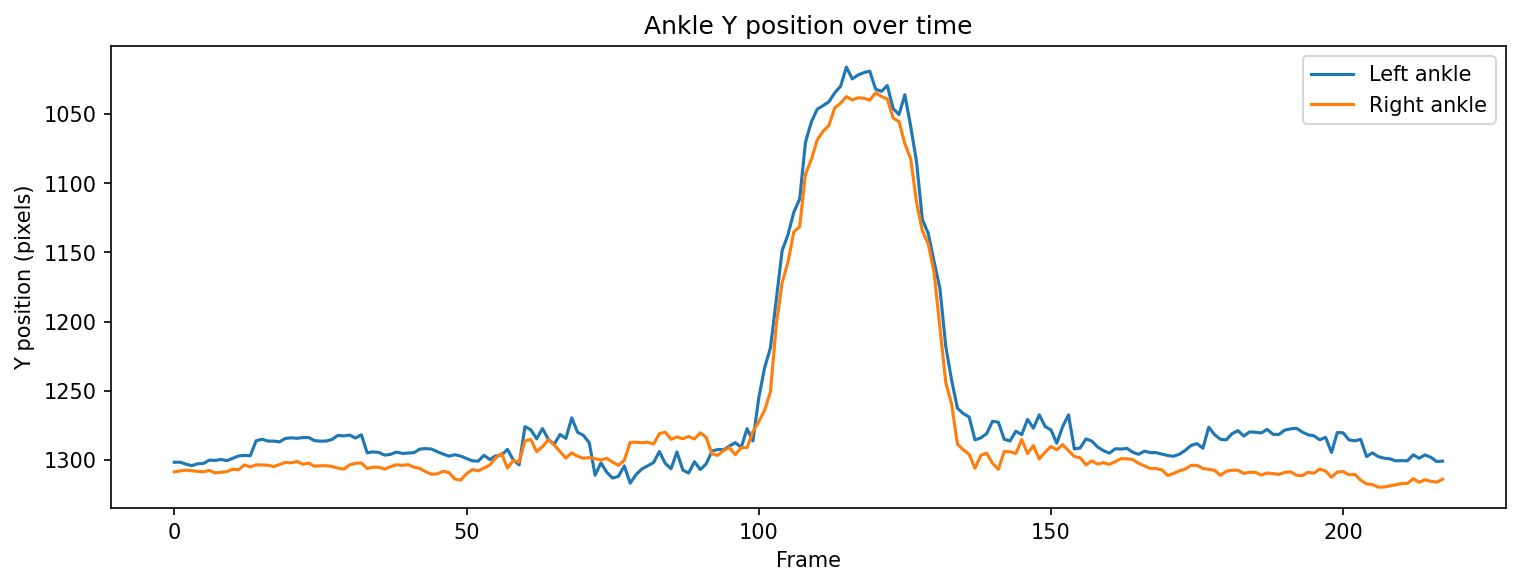
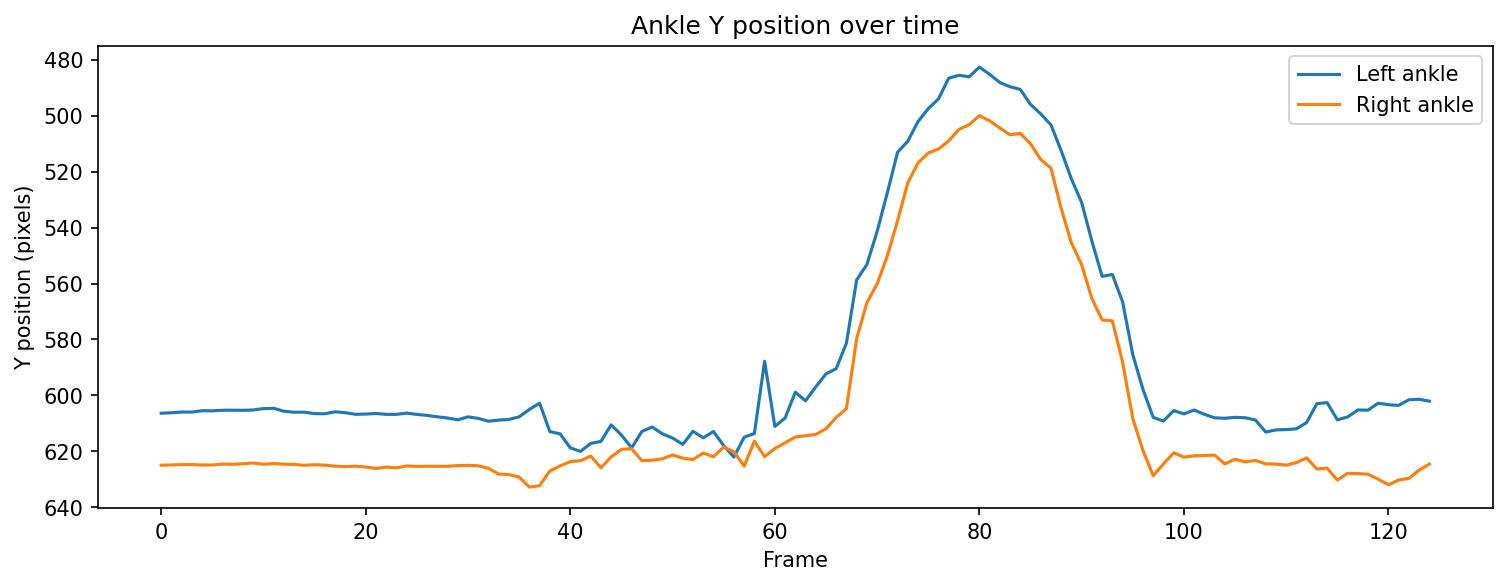
chore: Add updated READMEs

diff --git a/backend/core/vertical/README.md b/backend/core/vertical/README.md
@@ -1,0 +1,114 @@
+# Vertical module: Technical decisions
+
+This document records the key design choices made during development of the vertical jump analysis module, and the reasoning behind each one.
+
+---
+
+## Overview
+
+The vertical module measures jump height (cm) and flight time (ms) from a video recording. The phone records the athlete performing a countermovement jump from the side. YOLOv8 Pose tracks ankle position frame by frame, takeoff and landing frames are detected from the resulting Y-trajectory, and jump height is derived from flight time using free-fall kinematics.
+
+**Pipeline**: record/load video → track ankles → detect takeoff + landing → compute height.
+
+---
+
+## Pose estimation: YOLOv8 instead of MediaPipe
+
+The original design used MediaPipe. MediaPipe 0.10.x dropped the legacy `mp.solutions` API entirely, and the last version that had it (`0.10.14`) has no wheels for Python 3.12+.
+
+**Decision:** switch to `ultralytics` (YOLOv8n-pose, `yolov8n-pose.pt`). It supports modern Python, has equivalent keypoint quality for this use case, and is actively maintained.
+
+**Practical difference:** YOLOv8 returns keypoints in absolute pixel coordinates, not normalized 0–1 values. Ankle keypoints are indices 15 (left) and 16 (right). This is irrelevant for the height calculation because jump height is derived from flight time, not pixel displacement.
+
+---
+
+## Inference device
+
+At startup, `main.py` checks `torch.cuda.is_available()` and stores the result in `app.state.device`. The device string (`"cuda"` or `"cpu"`) is passed down to `track_ankles` and used in every `model()` call. CPU processes the test video (218 frames, 60 fps) in ~10 s, acceptable for a synchronous endpoint with personal-use frequency.
+
+---
+
+## Tracking: average of both ankles
+
+`track_ankles` averages keypoints 15 (left ankle) and 16 (right ankle) into a single `ankle_y` series. For a symmetric vertical jump both ankles follow nearly identical trajectories, so averaging reduces per-keypoint noise without losing relevant information.
+
+**Known limitation:** for jumps with significant asymmetry (rotation, unequal push-off), averaging could hide that information. Not a concern for the intended use case (straight vertical jump, self-recorded on a tripod).
+
+---
+
+## Frames without detection: forward-fill
+
+If YOLO fails to detect a person in a frame (occasional missed detections), `track_ankles` repeats the last valid `ankle_y` value. This keeps the series continuous without gaps.
+
+**Special case: frame 0 without detection.** there is no prior value to repeat, so the function returns `{"success": False, "error": "No person detected in the first frame"}`. Backward-fill was not implemented because under normal use the athlete is visible from the first frame.
+
+---
+
+## Person selection: first YOLO detection
+
+`track_ankles` uses `keypoints.xy[0]`, the first person YOLO detects in each frame. If multiple people are visible the result is indeterminate. This is accepted because the intended setup is one person self-recording in an empty space.
+
+---
+
+## Takeoff and landing detection: relative threshold
+
+`detect_takeoff_and_landing` computes:
+
+- `rest_position`: median of the first `rest_frames` (default 15) ankle-Y values. Median instead of mean to be robust against occasional detection outliers.
+- `peak_position`: global minimum of `ankle_y` (lowest Y value = highest point in image coordinates).
+- `total_range = rest_position − peak_position`.
+- `threshold = rest_position − margin_ratio × total_range`.
+
+**Takeoff** is the first frame (after `rest_frames`) where `ankle_y` drops below the threshold and stays below for `sustain_frames` (default 2) consecutive frames, to filter single-frame noise spikes.
+
+**Landing** is the symmetric crossing, searched forward from the peak frame.
+
+### Calibration of `margin_ratio`
+
+Starting value `0.1` (10% of total range) produced takeoff detection ~3 frames too early against frame-by-frame visual inspection of the test video. `margin_ratio = 0.3` matched the visual read closely. **This value was calibrated on a single 60 fps CMJ video** and is exposed as a parameter for future recalibration without code changes.
+
+### Known limitation: the ankle is not the foot
+
+During takeoff the heel rises while the toes remain on the ground; during landing the reverse happens. The ankle moves before the foot fully leaves the ground, and stops after the foot fully lands. This introduces a systematic bias in `flight_time_ms` and therefore in `jump_height_cm`. Calibrating `margin_ratio` to your own setup should fix it.
+
+---
+
+## Jump height formula: `h = g·t²/8`
+
+For a symmetric vertical jump (equal ascent and descent, each `t/2`):
+
+```
+h = g · (t/2)² / 2  =  g · t² / 8
+```
+
+`GRAVITY_M_S2 = 9.80665` (standard gravity).
+
+---
+
+## FPS: metadata or override
+
+FPS is read from `cap.get(cv2.CAP_PROP_FPS)`. `MediaRecorder` (the browser recording API) does not embed a valid FPS value in the WebM container; metadata often reads as `1000` or `0`. The endpoint accepts an optional `fps` form field; when provided, it overrides the metadata value. The frontend reads `videoTrack.getSettings().frameRate` and sends it as `fps`.
+
+If `fps_override` is not provided and metadata FPS is outside the range `(0, 240]`, the endpoint returns an error rather than computing silently wrong results.
+
+**Known risk:** if metadata reports a non-integer (e.g. `59.94` instead of `60.0`) and no override is sent, the timing calculations inherit a small error.
+
+**Input modes:** the upload component supports three modes: Record (countdown + camera, recommended), Upload video (file from device, for iOS compatibility or pre-recorded videos), and Manual (direct height entry, no video required).
+
+---
+
+## Error contract: `{success, error}` throughout the module
+
+All functions in `extractor.py` return dicts with `success: bool` and, on failure, `error: str`. Python exceptions would be more idiomatic, but the module was fully implemented and tested with the dict pattern before the question arose. All subsequent modules follow the same contract for consistency.
+
+---
+
+## Model injected as parameter
+
+`analyze(video_path, model, device, fps_override)` receives the YOLOv8 model and device string as parameters. The model is loaded once at startup via the FastAPI `lifespan` handler and stored in `app.state.model`. This avoids the ~1–2 s model-load cost on every request.
+
+---
+
+## `ankle_y` series not included in the response
+
+`track_ankles` computes the full ankle trajectory but `analyze` does not include it in the return dict. Adding it is one line when needed (e.g. for overlaying the trajectory on the video). It is omitted now to avoid sending 200+ floats per request with no consumer.

diff --git a/backend/tests/README.md b/backend/tests/README.md
@@ -1,0 +1,92 @@
+# Tests
+
+## Running tests
+
+All commands must be run from the `backend/` directory:
+
+```bash
+cd backend
+```
+
+**Run everything except integration tests** (fast, no fixtures needed):
+
+```bash
+uv run pytest -m "not integration"
+```
+
+**Run only integration tests** (requires fixture files, see below):
+
+```bash
+uv run pytest -m integration
+```
+
+**Run everything:**
+
+```bash
+uv run pytest
+```
+
+---
+
+## Test structure
+
+```
+tests/
+├── conftest.py              # Shared fixtures: test DB, TestClient, YOLO model
+├── api/
+│   ├── test_horizontal.py   # POST /api/analyze/horizontal
+│   ├── test_vertical.py     # POST /api/analyze/vertical
+│   ├── test_sprint.py       # POST /api/analyze/sprint
+│   └── test_sessions.py     # athlete profile, sessions, dashboard, metrics
+└── core/
+    ├── vertical/            # Unit tests for vertical extractor functions
+    └── sprint/              # Unit tests for sprint extractor functions
+```
+
+---
+
+## Integration tests and fixtures
+
+Tests marked with `@pytest.mark.integration` require real media files that are **not** committed to the repository (personal recordings).
+
+Place the following files manually before running integration tests:
+
+| Path | Description |
+|------|-------------|
+| `tests/core/vertical/fixtures/video.mp4` | Side-on video of a vertical jump. The athlete must be fully visible for the entire jump with at least 15 frames of standing still at the start. |
+| `tests/core/sprint/fixtures/video.mp4` | Finish-line video of a sprint. The athlete must cross the horizontal midpoint of the frame. |
+
+---
+
+## How the test database works
+
+Tests use a file-based SQLite database (`backend/test.db`) rather than an in-memory database.
+
+**Why not in-memory?** FastAPI's `TestClient` runs the app in a different thread from the test itself. SQLite in-memory databases are bound to a single connection, which caused `"no such table"` errors when the endpoint tried to read from a database created in the fixture thread. A file-based database is shared correctly across threads via the same engine.
+
+`test.db` is created and dropped around each test via the `db_session` fixture in `conftest.py`, and it is listed in `.gitignore`.
+
+---
+
+## How database and model injection work
+
+`conftest.py` defines two fixtures:
+
+- **`db_session`**: creates all tables in `test.db`, yields a `TestingSessionLocal` session, then drops all tables after the test.
+- **`client`**: overrides `get_db` with a function that yields the test session, sets `app.state.model` and `app.state.device` if not already set, then creates the `TestClient`. Dependency overrides are cleared after each test.
+
+This pattern (`app.dependency_overrides`) is the standard FastAPI approach for swapping dependencies in tests.
+
+---
+
+## What integration tests verify
+
+API integration tests do not just check `response.status_code == 200`. They also query the test database directly to confirm that the record was actually written, catching bugs where the endpoint returns a valid response but silently fails to persist.
+
+---
+
+## Adding new tests
+
+1. **Unit tests** for a new core function: add a file under `tests/core/<module>/`. Use `pytest.approx` for float comparisons.
+2. **API integration tests**: add a file under `tests/api/`. Use the `client` fixture; it injects the test database and YOLO model automatically.
+3. **Tests requiring media files**: mark with `@pytest.mark.integration` and document the required fixture file in this README.

diff --git a/README.md b/README.md
@@ -6,6 +6,14 @@ Built as a portfolio project. Designed for single-athlete personal use, running 
 
 ---
 
+**[→ Live demo](https://athlete-lens.netlify.app)** sample data, no backend required.
+
+<a href="https://athlete-lens.netlify.app">
+<img src="docs/dashboard.png" alt="Athlete Lens Dashboard" width="600" />
+</a>
+
+---
+
 ## What it measures
 
 | Module | Input | Output |
@@ -18,7 +26,7 @@ Built as a portfolio project. Designed for single-athlete personal use, running 
 
 ## Vertical jump
 
-<!-- GIF: vertical jump demo -->
+![Jump Detection](docs/ankle_overlay.gif)
 
 The phone records a countermovement jump from the side. YOLOv8 Pose tracks ankle keypoints (15/16) frame by frame. Takeoff and landing frames are detected from the Y-trajectory using a relative threshold. Jump height is derived from flight time:
 
@@ -32,7 +40,7 @@ h = g · t² / 8
 
 ## Sprint
 
-<!-- GIF: sprint demo -->
+![Sprint Detection](docs/sprint_crossing_readme.gif)
 
 The phone is placed at the finish line. A countdown timer gives the athlete time to reach the starting position. Three audible beeps mark T = 0; recording starts on the third beep. YOLOv8 Pose detects the frame where the athlete's hip center (keypoints 11/12) crosses the horizontal midpoint. Sprint time = `crossing_frame / fps`.
 
@@ -67,7 +75,7 @@ Distance is entered manually after measuring with a tape. No video processing.
 - [`uv`](https://github.com/astral-sh/uv): installed automatically by `setup.sh` if missing
 - (Optional) [`cloudflared`](https://developers.cloudflare.com/cloudflare-one/connections/connect-networks/downloads/): for mobile access
 
-**Hardware:** any machine capable of running YOLOv8 inference. CUDA is used automatically if available; CPU fallback processes a typical video in ~10 s on an RTX 3050 Ti, which is acceptable for personal-use frequency.
+**Hardware:** any machine capable of running YOLOv8 inference. CUDA is used automatically if available; CPU fallback processes a typical video in ~10 s, which is acceptable for personal-use frequency.
 
 ---
 
@@ -175,12 +183,6 @@ athlete-lens/
 │   └── public/                 # PWA manifest, service worker, icons
 └── setup.sh
 ```
-
----
-
-## Dashboard
-
-![Athlete Lens Dashboard](docs/dashboard.png)
 
 ---
 

diff --git a/backend/core/sprint/README.md b/backend/core/sprint/README.md
@@ -26,7 +26,7 @@ This approach failed for a fundamental reason: **asymmetric clap energy**. The s
 
 The `MediaRecorder` starts exactly when the third beep begins. Frame 0 of the video therefore corresponds to T = 0 of the sprint. Sprint time is `crossing_frame / fps`. No offset needed.
 
-**Implementation detail:** `playCountdownBeeps` (frontend) schedules three beeps via the Web Audio API at t = 0, t = 0.5 s, t = 1.0 s. `MediaRecorder.start()` is called after a `setTimeout` of `BEEP_GAP * 2 * 1000` ms (1000 ms), which corresponds exactly to when the third beep begins.
+**Implementation detail:** `playCountdownBeeps` (frontend) schedules three beeps via the Web Audio API. `MediaRecorder.start()` is called after a `setTimeout` of `BEEP_GAP * 2 * 1000` ms (1000 ms), which corresponds exactly to when the third beep begins.
 
 ---
 
@@ -87,12 +87,6 @@ At startup, `main.py` checks `torch.cuda.is_available()` and stores the result i
 
 ---
 
-## Sprint time resolution
-
-At 60 fps, each frame represents 16.67 ms. Sprint time is stored as a float in seconds and displayed to 3 decimal places in the UI. No rounding is applied at the database layer.
-
----
-
 ## Reaction time is included
 
 The athlete starts on the third beep. The time between the beep and the athlete's first movement (reaction time, typically 120–200 ms) is included in `sprint_time_s`. This is consistent with how sprint times are measured in field conditions (reaction to a gun or whistle).
@@ -124,3 +118,5 @@ Identical to the vertical module. All functions in `extractor.py` return dicts. 
 The frontend uses the browser's `MediaRecorder` API, which produces WebM video. OpenCV reads WebM natively on most platforms. No server-side transcoding is needed.
 
 **Known risk:** some older Android browsers may produce MP4 instead of WebM. If `cv2.VideoCapture` fails to open the file, the endpoint returns `{"success": False, "error": "... failed opening"}`.
+
+**Input modes:** the upload component supports three modes: Record (countdown + camera, recommended), Upload video (file from device, for iOS compatibility or pre-recorded videos), and Manual (direct time entry, no video required).